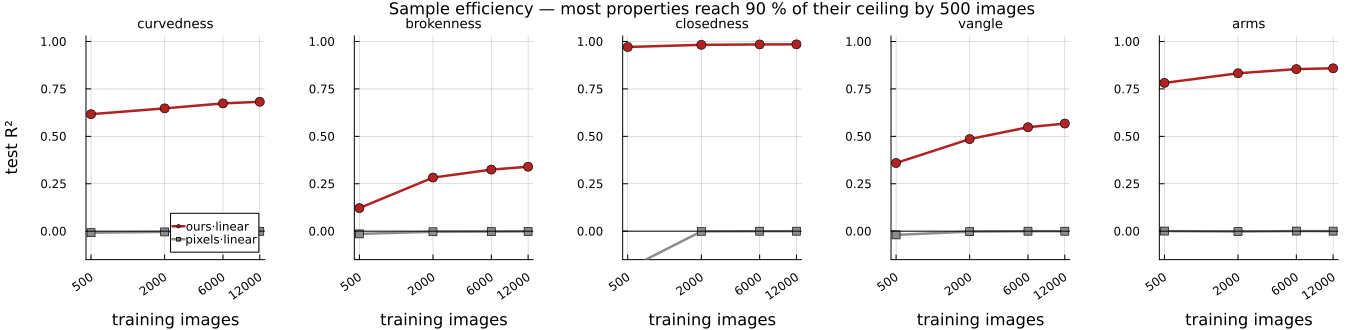
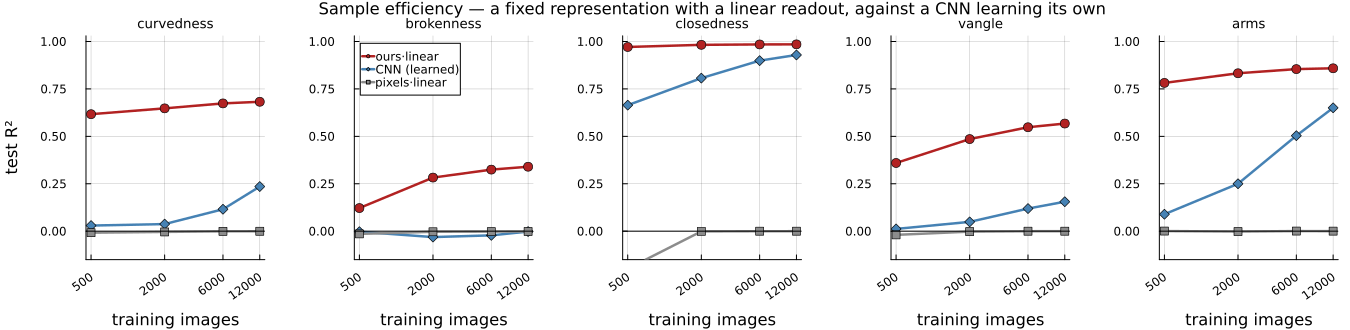
Add the CNN to the sample-efficiency curve
At 500 images the front end is at 91% of its final arms score and the CNN is at
14% of its own -- a gap of 8.8x, closing to 1.3x by 12,000. A fixed
representation starts where it will finish; a learned one buys its
representation with data.

Recorded honestly: two of the CNN's curves are still climbing steeply at the
right edge and would likely close further with more data or epochs. The
exception is brokenness, where the CNN is flat within noise of zero at every
size tried while ours reaches 0.340 -- a 3 px gap appears to be below what that
architecture extracts at any sample size.

diff --git a/SimpleStrokeTests/RESULTS.md b/SimpleStrokeTests/RESULTS.md
@@ -257,6 +257,28 @@ rather than jittering from resampling.
 | 12,000 | 0.682 | 0.340 | 0.985 | 0.567 | 0.859 | 0.576 | 0.625 |
 | **% of ceiling at k=500** | **90 %** | 36 % | **99 %** | 64 % | **91 %** | 77 % | 75 % |
 
+And the CNN over the same nested subsets — the comparison that makes the point:
+
+| k | curvedness | brokenness | closedness | vangle | arms |
+|--:|--:|--:|--:|--:|--:|
+| 500 | 0.030 | −0.003 | 0.664 | 0.012 | 0.089 |
+| 2,000 | 0.038 | −0.031 | 0.807 | 0.049 | 0.250 |
+| 6,000 | 0.116 | −0.022 | 0.899 | 0.119 | 0.504 |
+| 12,000 | 0.235 | −0.002 | 0.929 | 0.155 | 0.650 |
+| **% of *its own* ceiling at k=500** | 13 % | — | 71 % | 8 % | **14 %** |
+
+**A fixed representation starts where it will finish; a learned one has to buy its
+representation with data.** On `arms`, ours moves 0.782 → 0.859 across a 24× increase in
+data while the CNN moves 0.089 → 0.650. At 500 images the gap is **8.8×**; by 12,000 it is
+1.3× and still closing.
+
+**That is the honest shape of the result.** Two of the CNN's curves are climbing steeply at
+the right-hand edge — `arms` gained +0.146 over the last doubling — so with substantially
+more data, more epochs, or both, it would likely close the gap on `curvedness` and `arms`.
+What it does *not* do is learn `brokenness` at all: flat within noise of zero at every size,
+where ours reaches 0.340. A 3 px gap in a 112 px image appears to be below what this
+architecture extracts at any sample size tested.
+
 `pixels·linear` is at 0.000 ± 0.02 for every property at every k, except polarity where it
 sits at 0.689–0.709 throughout. **More data does not help a representation that does not
 contain the property**, which is the cleanest statement of what a front end is for.

diff --git a/SimpleStrokeTests/RESULTSexpanded.md b/SimpleStrokeTests/RESULTSexpanded.md
@@ -391,6 +391,26 @@ scribbles, and the question is not central enough to be worth changing the datas
 With **500 images** — a few minutes of drawing — the front end is at 90 % of what it reaches
 with 12,000, for three of the five geometric properties.
 
+The CNN — which builds its own description from the examples — over the same subsets:
+
+| training images | curvedness | brokenness | closedness | vangle | arms |
+|--:|--:|--:|--:|--:|--:|
+| 500 | 0.030 | −0.003 | 0.664 | 0.012 | 0.089 |
+| 2,000 | 0.038 | −0.031 | 0.807 | 0.049 | 0.250 |
+| 6,000 | 0.116 | −0.022 | 0.899 | 0.119 | 0.504 |
+| 12,000 | 0.235 | −0.002 | 0.929 | 0.155 | 0.650 |
+
+**This is the clearest way to see what a front end buys you.** With 500 images, our fixed
+description already answers "how many arms meet here" at 0.782, while the CNN manages 0.089
+— roughly nine times worse. By 12,000 images the CNN has reached 0.650 and is still
+improving. It is *learning* what we *supplied*.
+
+Being fair to the CNN: two of its curves are still rising steeply at the right-hand edge, so
+with much more data it would probably catch up on some properties. But note `brokenness` —
+whether the stroke has a gap in it. The CNN sits at zero for every training-set size tried.
+A 3-pixel gap in a 112-pixel image is apparently too fine for it to pick up at all, while our
+description reaches 0.340.
+
 Raw pixels sit at 0.000 for every property at every size. **They do not improve with more
 data**, which is the sharpest statement of what a front end is for: extra examples cannot
 recover information the representation never made available.
